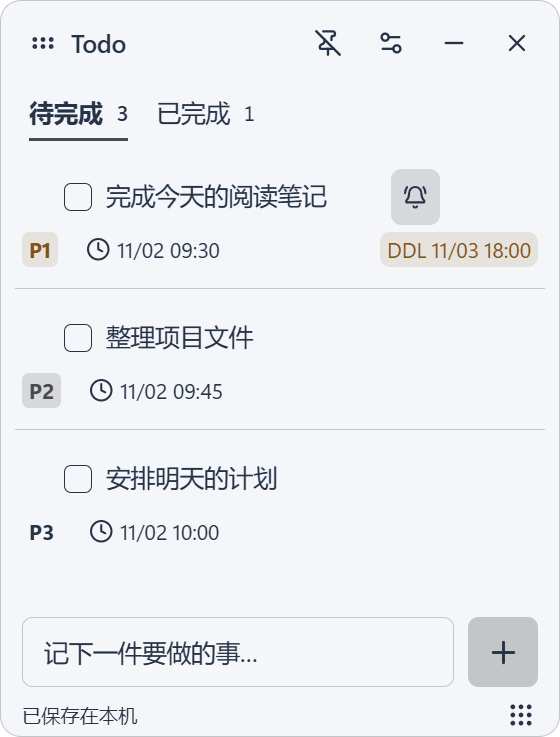
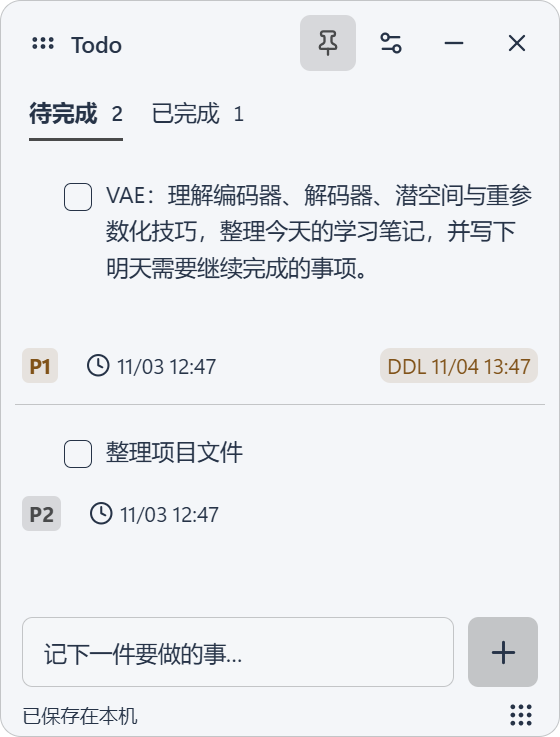
fix: give task text full width with trailing hover actions

diff --git a/src/styles.css b/src/styles.css
@@ -26,6 +26,8 @@
   --font-size-heading: 16px;
   --task-meta-font-size: 12px;
   --task-meta-line-height: 20px;
+  --task-action-width: 28px;
+  --task-action-height: 32px;
   --radius-small: 6px;
   --radius-window: 12px;
   --ease-feedback: cubic-bezier(.2, 0, .2, 1);
@@ -74,8 +76,9 @@ h1 { font-size: 22px; line-height: 1.3; font-weight: 650; margin: 0; letter-spac
 .todo-check input:checked + .check-mark { background: var(--background-accent); border-color: var(--color-accent); color: var(--color-on-accent); }
 .todo-text { display: block; min-width: 0; padding: 0 0 var(--space-1); line-height: 1.6; overflow-wrap: anywhere; user-select: text; }
 .completed .todo-text { color: var(--color-muted); text-decoration: line-through; }
-.todo-content { flex: 1; min-width: 0; padding: var(--space-1) 0 0; }
-.todo-content .todo-text { padding-bottom: 0; }
+.todo-content { position: relative; flex: 1; min-width: 0; padding: var(--space-1) 0 0; line-height: 1.6; }
+.todo-content .todo-text { display: inline; padding-bottom: 0; }
+.todo-content .todo-text::after { content: ''; display: inline-block; width: calc(3 * var(--task-action-width) + var(--space-2)); height: var(--task-action-height); vertical-align: top; }
 .todo-meta { display: flex; flex: 0 0 100%; min-width: 0; align-items: center; flex-wrap: nowrap; gap: var(--space-4); padding-bottom: var(--space-1); font-size: var(--task-meta-font-size); line-height: var(--task-meta-line-height); white-space: nowrap; }
 .todo-created { display: inline-flex; flex-shrink: 0; align-items: center; gap: var(--space-1); color: var(--color-muted); }
 .priority-badge { display: inline-block; flex-shrink: 0; padding: 0 var(--space-1); border-radius: var(--space-1); font-weight: 650; }
@@ -88,13 +91,13 @@ h1 { font-size: 22px; line-height: 1.3; font-weight: 650; margin: 0; letter-spac
 .priority-p3 { color: var(--color-muted); background: var(--background-surface); }
 .edit-priority { display: flex; align-items: center; flex-wrap: wrap; gap: var(--space-2); margin-top: var(--space-2); font-size: 12px; }
 .edit-priority .hint { margin: 0; }
-.todo-actions { display: flex; flex-shrink: 0; }
-.todo-actions .row-button:not(.selected), .sort-handle, .deadline-unset { opacity: 0; pointer-events: none; }
+.todo-actions { position: absolute; right: 0; bottom: 0; display: flex; }
+.todo-actions .row-button, .sort-handle, .deadline-unset { opacity: 0; pointer-events: none; }
 .todo-item:hover .todo-actions .row-button, .todo-item:focus-within .todo-actions .row-button,
 .todo-item:hover .sort-handle, .todo-item:focus-within .sort-handle,
 .todo-item:hover .deadline-unset, .todo-item:focus-within .deadline-unset { opacity: 1; pointer-events: auto; }
-@media (hover: none) { .todo-actions .row-button:not(.selected), .sort-handle, .deadline-unset { opacity: 1; pointer-events: auto; } }
-.row-button { width: 28px; height: 32px; padding: 0; color: var(--color-muted); border-radius: var(--radius-small); }
+@media (hover: none) { .todo-actions .row-button, .sort-handle, .deadline-unset { opacity: 1; pointer-events: auto; } }
+.row-button { width: var(--task-action-width); height: var(--task-action-height); padding: 0; color: var(--color-muted); border-radius: var(--radius-small); }
 .todo-item .field-error, .todo-item .delete-confirmation p { background: var(--background-danger-soft); }
 .edit-form { width: 100%; padding: var(--space-1); }
 textarea { width: 100%; min-height: 68px; resize: vertical; border: 1px solid var(--color-border); border-radius: var(--radius-small); padding: var(--space-2); color: var(--color-text); background: var(--background-raised); user-select: text; }
@@ -187,5 +190,5 @@ select option { color: var(--color-text); background: var(--color-raised); }
 .resize-NorthEast, .resize-NorthWest, .resize-SouthEast, .resize-SouthWest { width: 8px; height: 8px; }
 .resize-NorthEast { top: 0; right: 0; cursor: nesw-resize; }.resize-NorthWest { top: 0; left: 0; cursor: nwse-resize; }
 .resize-SouthEast { bottom: 0; right: 0; cursor: nwse-resize; }.resize-SouthWest { bottom: 0; left: 0; cursor: nesw-resize; }
-@media (max-width: 300px) { .widget-header { gap: 0; }.window-controls { gap: 0; }.drag-area { gap: var(--space-1); }.row-button { height: 24px; } }
+@media (max-width: 300px) { :root { --task-action-height: 24px; }.widget-header { gap: 0; }.window-controls { gap: 0; }.drag-area { gap: var(--space-1); } }
 @media (prefers-reduced-motion: reduce) { *, *::before { transition: none !important; } }

diff --git a/src/components/TodoItem.vue b/src/components/TodoItem.vue
@@ -100,14 +100,14 @@ function editKey(event: KeyboardEvent) {
           @change="$emit('toggle', todo.id)" /><span class="check-mark"><Check v-if="todo.completed" :size="12" /></span></label>
       <div class="todo-content">
         <span class="todo-text" :title="todo.text" @dblclick="beginEdit()">{{ todo.text }}</span>
-      </div>
-      <div class="todo-actions">
-        <button class="row-button" :class="{ selected: todo.remindAt != null && !todo.completed }" :aria-label="`设置提醒：${todo.text}`"
-          :aria-description="reminderDetails" :title="reminderDetails" @click="beginEdit('reminder')"><BellRing v-if="todo.remindAt != null" :size="14" /><Bell v-else :size="14" /></button>
-        <button ref="editButton" class="row-button" :aria-label="`编辑：${todo.text}`" title="编辑（也可双击文字）"
-          @click="beginEdit()"><Pencil :size="14" /></button>
-        <button ref="deleteButton" class="row-button danger-button" :aria-label="`${todo.completed ? '永久删除' : '删除'}：${todo.text}`"
-          :title="todo.completed ? '永久删除' : '删除'" @click="requestRemove"><Trash2 :size="14" /></button>
+        <div class="todo-actions">
+          <button class="row-button" :class="{ selected: todo.remindAt != null && !todo.completed }" :aria-label="`设置提醒：${todo.text}`"
+            :aria-description="reminderDetails" :title="reminderDetails" @click="beginEdit('reminder')"><BellRing v-if="todo.remindAt != null" :size="14" /><Bell v-else :size="14" /></button>
+          <button ref="editButton" class="row-button" :aria-label="`编辑：${todo.text}`" title="编辑（也可双击文字）"
+            @click="beginEdit()"><Pencil :size="14" /></button>
+          <button ref="deleteButton" class="row-button danger-button" :aria-label="`${todo.completed ? '永久删除' : '删除'}：${todo.text}`"
+            :title="todo.completed ? '永久删除' : '删除'" @click="requestRemove"><Trash2 :size="14" /></button>
+        </div>
       </div>
       <div class="todo-meta">
         <span class="priority-badge" :class="`priority-${todo.priority}`" :data-priority="todo.priority"

diff --git a/README.md b/README.md
@@ -2,13 +2,14 @@
 
 放在 Windows 11 桌面上的轻量待办便笺。随手记录、勾选完成，关闭后再打开，清单和窗口设置都会恢复。基于 Tauri 2、Vue 3 和 TypeScript，数据保存在本机，无需账号。
 
-主界面采用平面列表，数量只在分类页签显示。悬停或用键盘聚焦任务时出现操作按钮；聚焦底部输入框后，再展开优先级、DDL 和提醒选项。已设置的提醒与截止时间保持可见。
+主界面采用平面列表，数量只在分类页签显示。正文用满任务行右侧空间，提醒、编辑和删除按钮放在正文末尾靠右，悬停或用键盘聚焦任务时出现；聚焦底部输入框后，再展开优先级、DDL 和提醒选项。已设置的截止时间保持可见。
 
 正文、输入框与页签使用 13px 字号，设置标题为 16px；优先级、添加时间和 DDL 保持 12px，兼顾轻量观感与时间信息的可读性。
 
 **[下载最新版](https://github.com/0xSilasLim/todo-widget/releases/latest)** · [使用方法](#使用方法) · [开发与构建](#开发与构建) · [验收记录](ACCEPTANCE.md)
 
 <img src="docs/images/widget.png" alt="Todo Widget：优先级、添加时间和 DDL 显示在同一行" width="320" />
+<img src="docs/images/widget-hover.png" alt="任务正文通栏展示，悬停后在正文末尾出现提醒、编辑和删除按钮" width="320" />
 <img src="docs/images/completed.png" alt="已完成任务：查看、恢复和永久删除" width="320" />
 <img src="docs/images/deadlines.png" alt="DDL 截止时间与临近、紧急状态" width="320" />
 <img src="docs/images/reminders.png" alt="输入框聚焦后展开优先级、DDL 和提醒选项" width="320" />
@@ -57,7 +58,7 @@
 | 查看任务信息 | 正文下方同一行显示优先级 P0–P3、时钟图标与添加时间、DDL；信息栏贴近正文，使用 12px 字号和至少 16px 字段间距，DDL 靠最右侧对齐。日期均按 Windows 本地时间显示到分钟，悬停查看完整说明和截止倒计时。 |
 | 设置 DDL | 聚焦新增输入框后点击日历按钮，或悬停 / 聚焦已有任务后点击右侧“设置 DDL”；选择本地日期和时间。只选日期默认 23:59。已设置的截止时间始终显示。 |
 | 修改 / 清除 DDL | 点击卡片上的 DDL 或铅笔，保存修改；“清除 DDL”后保存即可取消截止时间。 |
-| 设置提醒时间 | 聚焦新增输入框后点击“设置提醒”，或悬停 / 聚焦已有任务后点击铃铛；选择日期与时分，保存后在指定时间提醒一次。无需设置 DDL。已设置的提醒铃铛保持可见。 |
+| 设置提醒时间 | 聚焦新增输入框后点击“设置提醒”，或悬停 / 聚焦已有任务后点击正文末尾的铃铛；选择日期与时分，保存后在指定时间提醒一次。无需设置 DDL。已设置时使用响铃图标和强调状态，悬停查看时间和状态。 |
 | 修改 / 清除提醒 | 点击铃铛进入编辑；修改日期和时间，或点击“清除提醒”，然后保存。响铃图标表示已设置，悬停查看完整时间。 |
 | 开启 DDL 自动提醒 | 在设置中开启“DDL 自动提醒”（默认关闭）。未单独设置提醒的任务，在 DDL 前 1 小时和到期时各提醒一次。 |
 | 编辑 | 悬停或用 Tab 聚焦任务后点击铅笔，也可双击任务正文；可修改内容和优先级。Enter 保存，Shift+Enter 换行，Esc 取消。支持中文输入法确认。 |

diff --git a/DESIGN.md b/DESIGN.md
@@ -7,7 +7,7 @@
 - 窗口底色默认 244/246/249，可在窗口设置通过原生色盘自选。窗口、输入框、选中 / 悬停按钮、开关轨道及滑块轨道使用所选颜色派生的 CSS rgba 背景变量，Alpha 由同一个 20%–100% 不透明度控制。常态任务行、顶栏、页签、设置面板和页脚直接继承窗口的透明底色，减少叠层。文字、时间、已显示图标与焦点边框保持不透明；只有暂时收起的任务操作控件以 opacity 0 隐藏，悬停或键盘聚焦后立即恢复 1，不对窗口和内容容器设置 opacity。实色背景下普通 / 悬停文字对比度至少 4.5:1，透明背景下最终对比度受桌面内容影响。主按钮前景结合底色与透明度选择深浅。危险 / 临期提示保留提示含义，底色也混入所选颜色。色样、原生下拉弹出项及开关 / 滑块操作指示保持实色，原生表单 color-scheme 随明暗切换。
 - “背景颜色”显示色块和当前十六进制颜色值；选择时预览，确认后保存。提供“恢复默认”，仅重置颜色，不改变透明度或窗口设置；旧设置缺少颜色字段时使用默认浅灰。
 - 按钮均有明确的无障碍名称及可见焦点。图标统一 Lucide，32px 窗口按钮和 32px 行按钮符合紧凑桌面工具密度；新增和设置主要操作至少 40px。
-- 任务行不使用独立卡片底色或四边框，直接继承窗口底色与透明度，以底部分隔线区分。排序柄、编辑 / 删除和未设置 DDL 的入口默认收起，在行悬停或键盘聚焦时显示，不移动正文和元信息的位置；触摸设备始终显示。已设置的提醒铃铛与 DDL 保持可见。排序柄仍可直接获得键盘焦点，支持 Alt+上/下；编辑支持 Enter 保存、Esc 取消。长任务自然换行并可查看完整文本。
+- 任务行不使用独立卡片底色或四边框，直接继承窗口底色与透明度，以底部分隔线区分。正文用满勾选框右侧的剩余宽度，提醒 / 编辑 / 删除按钮排在正文末尾靠右的位置，不为按钮预留贯穿整段文字的独立列。三个按钮（包括已设置提醒的铃铛）、排序柄和未设置 DDL 的入口默认收起，在行悬停或键盘聚焦时显示，不移动正文和元信息、不遮挡文字；触摸设备始终显示。已设置的 DDL 保持可见。排序柄仍可直接获得键盘焦点，支持 Alt+上/下；编辑支持 Enter 保存、Esc 取消。长任务自然换行并可查看完整文本。
 - 优先级为 P0 紧急、P1 高、P2 普通、P3 低，默认 P2。任务文字下方显示 P0–P3 紧凑标签，分别使用危险色、警告色、主题强调色、次要文字色，底色均跟随主题；悬停与无障碍名称保留等级说明。新增与编辑使用原生下拉框，键盘可操作；修改优先级保留手动排序。
 - 顶栏下方为左对齐的“待完成 / 已完成”文本页签，显示各自数量，用短下划线表示当前分类，不使用大面积填充。启动默认待完成，勾选后自动归类但不切换视图。页签支持方向键、Home / End；任务移出当前视图后，焦点移至下一项或当前页签。
 - 已完成任务保留优先级与添加时间，取消勾选可恢复；不显示排序柄。永久删除采用行内两步确认，默认焦点在取消，支持 Esc 返回，不叠加模态窗口。

diff --git a/RELEASE_NOTES.md b/RELEASE_NOTES.md
@@ -1,4 +1,10 @@
-# Todo Widget v0.9.1
+# Todo Widget v0.9.2
+
+任务正文用满勾选框右侧的剩余宽度，不再为操作按钮预留贯穿整段文字的右侧空列。提醒、编辑、删除三个按钮排在正文末尾靠右，仅在悬停或键盘聚焦该任务时显示，显示时不遮住文字、不重新折行；触摸设备直接显示。
+
+已设置提醒的铃铛也遵循相同的悬停规则；提醒仍按原时间播放。正文 13px、元信息 12px、字段单行排列和 DDL 靠右继续保留。
+
+## v0.9.1 小幅缩小字号
 
 字体小幅缩小：任务正文、输入框、页签、顶栏与设置项从 14px 调整为 13px，设置标题从 18px 调整为 16px。优先级、添加时间和 DDL 保持 12px，继续单行显示、至少 16px 间距、DDL 靠右；按钮与输入框的点击区域保持原尺寸。
 
